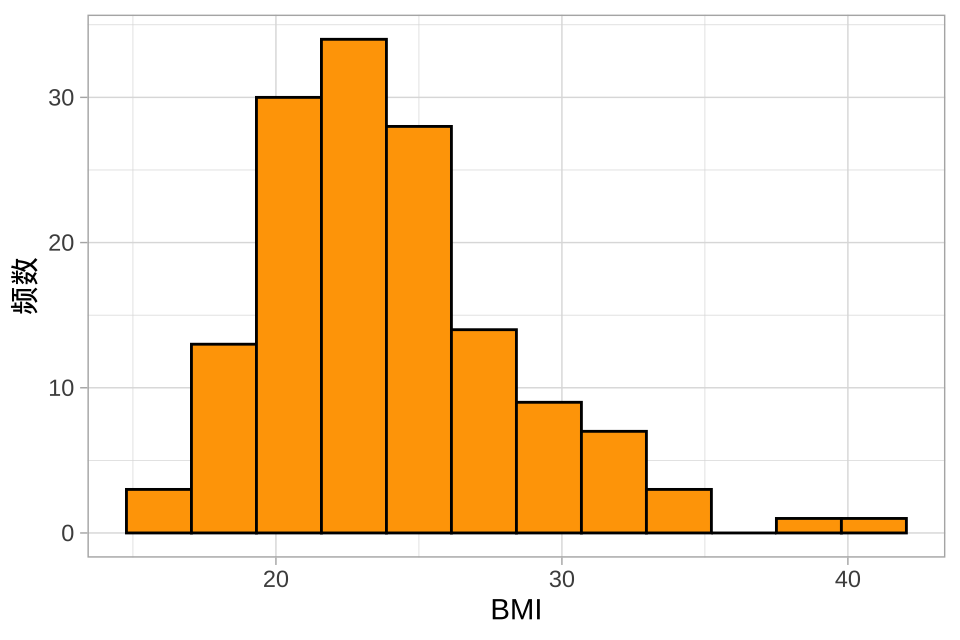
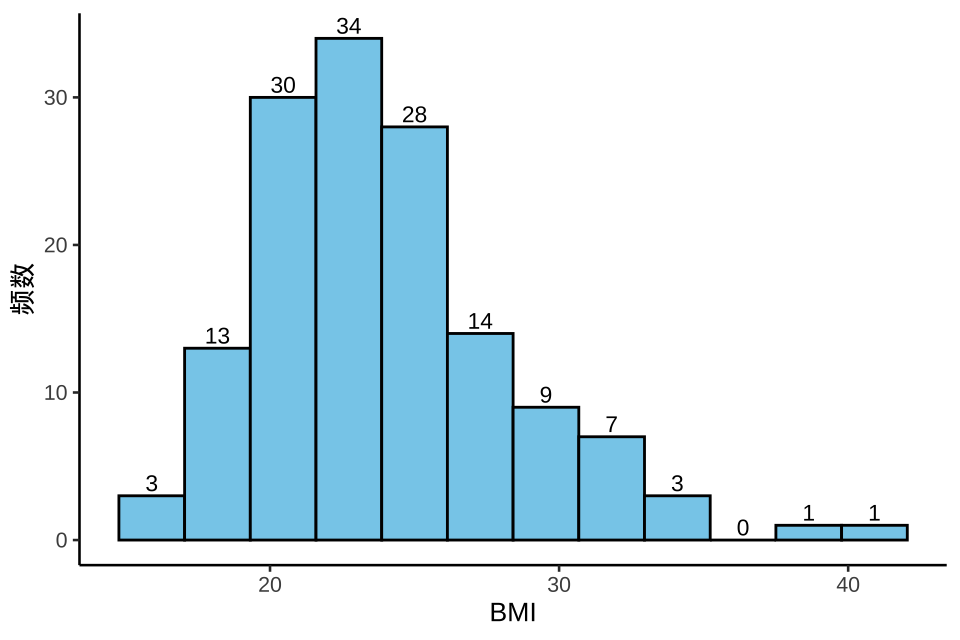
Built site for gh-pages

diff --git a/quat-data-stat-desc.html b/quat-data-stat-desc.html
@@ -745,9 +745,23 @@ window.Quarto = {
 <span id="cb9-10"><a href="#cb9-10" aria-hidden="true" tabindex="-1"></a>)</span>
 <span id="cb9-11"><a href="#cb9-11" aria-hidden="true" tabindex="-1"></a></span>
 <span id="cb9-12"><a href="#cb9-12" aria-hidden="true" tabindex="-1"></a><span class="fu">ggplot</span>(bmi, <span class="fu">aes</span>(<span class="at">x =</span> value_bmi)) <span class="sc">+</span></span>
-<span id="cb9-13"><a href="#cb9-13" aria-hidden="true" tabindex="-1"></a>  <span class="fu">geom_histogram</span>(<span class="at">fill =</span> <span class="st">"orange"</span>, <span class="at">color =</span> <span class="st">"black"</span>, <span class="at">bins =</span> <span class="dv">12</span>) <span class="sc">+</span></span>
-<span id="cb9-14"><a href="#cb9-14" aria-hidden="true" tabindex="-1"></a>  <span class="fu">labs</span>(<span class="at">x =</span> <span class="st">"BMI"</span>, <span class="at">y =</span> <span class="st">"频数"</span>) <span class="sc">+</span></span>
-<span id="cb9-15"><a href="#cb9-15" aria-hidden="true" tabindex="-1"></a>  <span class="fu">theme_light</span>()</span></code><button title="复制到剪贴板" class="code-copy-button"><i class="bi"></i></button></pre></div>
+<span id="cb9-13"><a href="#cb9-13" aria-hidden="true" tabindex="-1"></a>  <span class="fu">geom_histogram</span>(</span>
+<span id="cb9-14"><a href="#cb9-14" aria-hidden="true" tabindex="-1"></a>    <span class="at">fill =</span> <span class="st">"skyblue"</span>, </span>
+<span id="cb9-15"><a href="#cb9-15" aria-hidden="true" tabindex="-1"></a>    <span class="at">color =</span> <span class="st">"black"</span>, </span>
+<span id="cb9-16"><a href="#cb9-16" aria-hidden="true" tabindex="-1"></a>    <span class="at">bins =</span> <span class="dv">12</span></span>
+<span id="cb9-17"><a href="#cb9-17" aria-hidden="true" tabindex="-1"></a>  ) <span class="sc">+</span></span>
+<span id="cb9-18"><a href="#cb9-18" aria-hidden="true" tabindex="-1"></a>  <span class="fu">stat_bin</span>(</span>
+<span id="cb9-19"><a href="#cb9-19" aria-hidden="true" tabindex="-1"></a>    <span class="at">geom =</span> <span class="st">"text"</span>, </span>
+<span id="cb9-20"><a href="#cb9-20" aria-hidden="true" tabindex="-1"></a>    <span class="fu">aes</span>(<span class="at">label =</span> <span class="fu">after_stat</span>(count)),</span>
+<span id="cb9-21"><a href="#cb9-21" aria-hidden="true" tabindex="-1"></a>    <span class="at">bins =</span> <span class="dv">12</span>, </span>
+<span id="cb9-22"><a href="#cb9-22" aria-hidden="true" tabindex="-1"></a>    <span class="at">size =</span> <span class="dv">3</span>,</span>
+<span id="cb9-23"><a href="#cb9-23" aria-hidden="true" tabindex="-1"></a>    <span class="at">vjust =</span> <span class="sc">-</span> <span class="fl">0.3</span></span>
+<span id="cb9-24"><a href="#cb9-24" aria-hidden="true" tabindex="-1"></a>  ) <span class="sc">+</span></span>
+<span id="cb9-25"><a href="#cb9-25" aria-hidden="true" tabindex="-1"></a>  <span class="fu">labs</span>(<span class="at">x =</span> <span class="st">"BMI"</span>, <span class="at">y =</span> <span class="st">"频数"</span>) <span class="sc">+</span></span>
+<span id="cb9-26"><a href="#cb9-26" aria-hidden="true" tabindex="-1"></a>  <span class="fu">theme</span>(</span>
+<span id="cb9-27"><a href="#cb9-27" aria-hidden="true" tabindex="-1"></a>    <span class="at">panel.background =</span> <span class="fu">element_blank</span>(),        <span class="co"># 移除背景</span></span>
+<span id="cb9-28"><a href="#cb9-28" aria-hidden="true" tabindex="-1"></a>    <span class="at">axis.line =</span> <span class="fu">element_line</span>(<span class="at">color =</span> <span class="st">"black"</span>)  <span class="co"># 保留坐标轴</span></span>
+<span id="cb9-29"><a href="#cb9-29" aria-hidden="true" tabindex="-1"></a>  )</span></code><button title="复制到剪贴板" class="code-copy-button"><i class="bi"></i></button></pre></div>
 <div class="cell-output-display">
 <div id="fig-freq-distribute-1" class="quarto-float quarto-figure quarto-figure-center anchored">
 <figure class="quarto-float quarto-float-fig figure">
